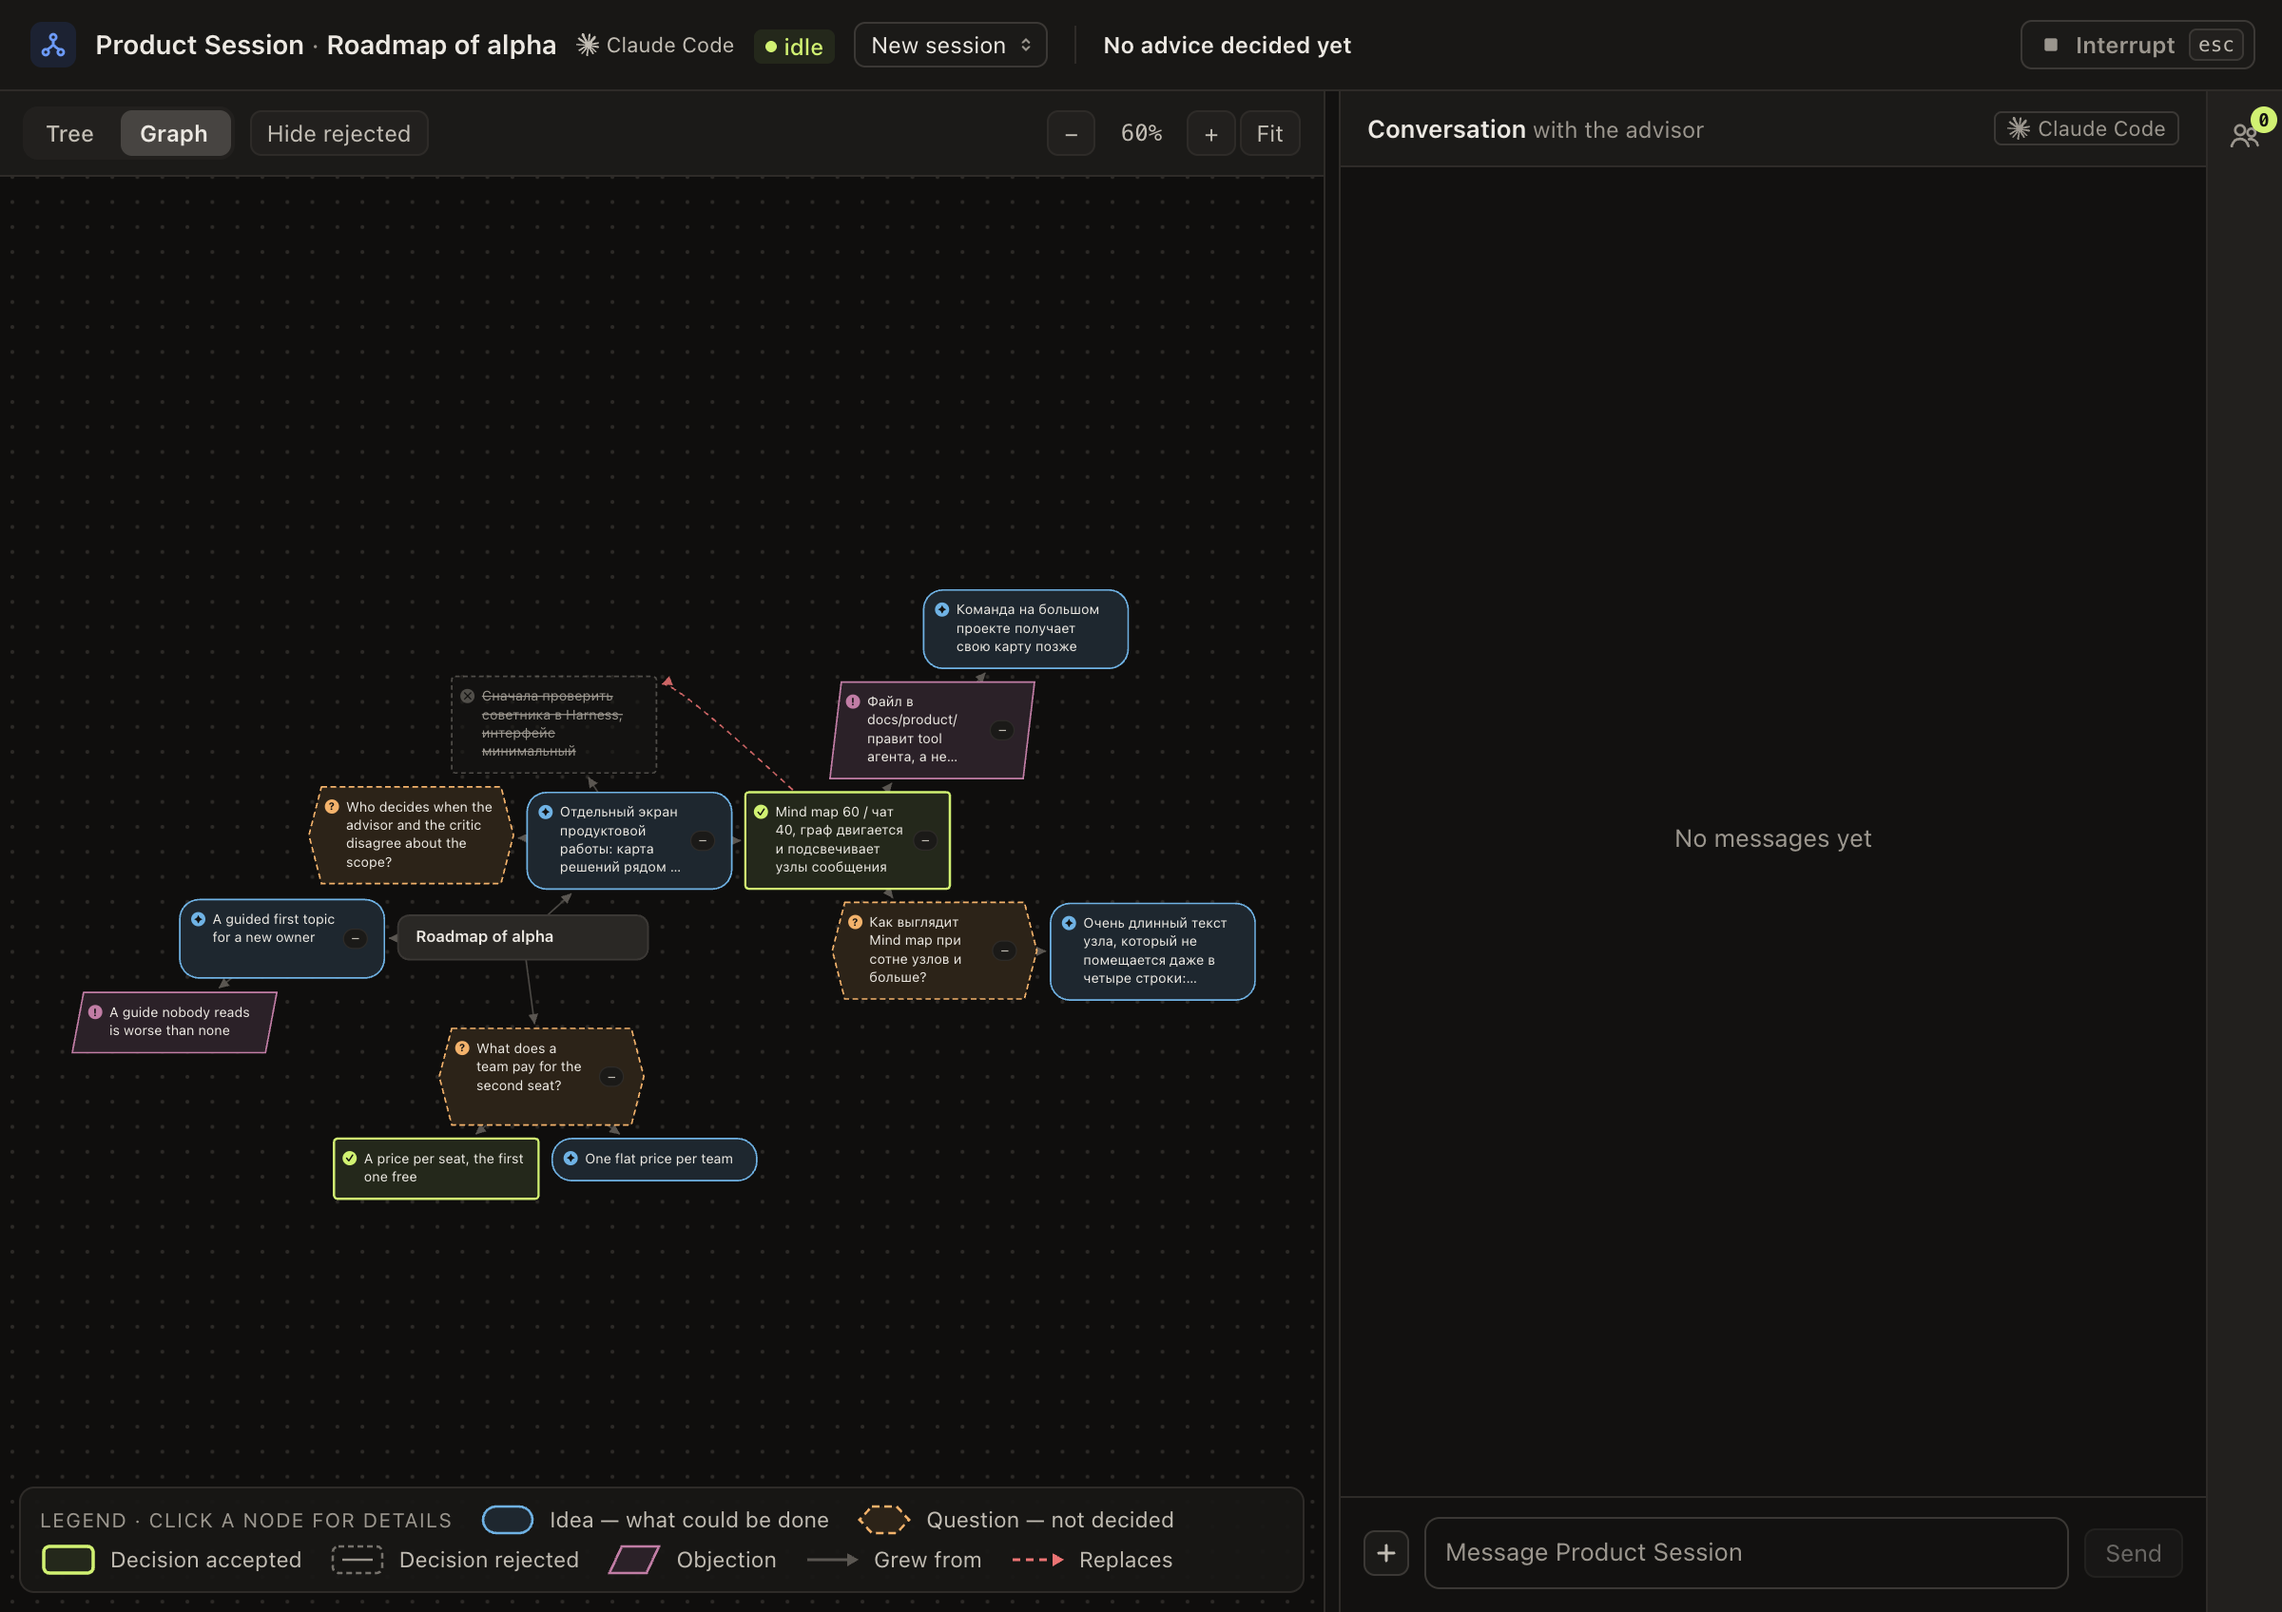
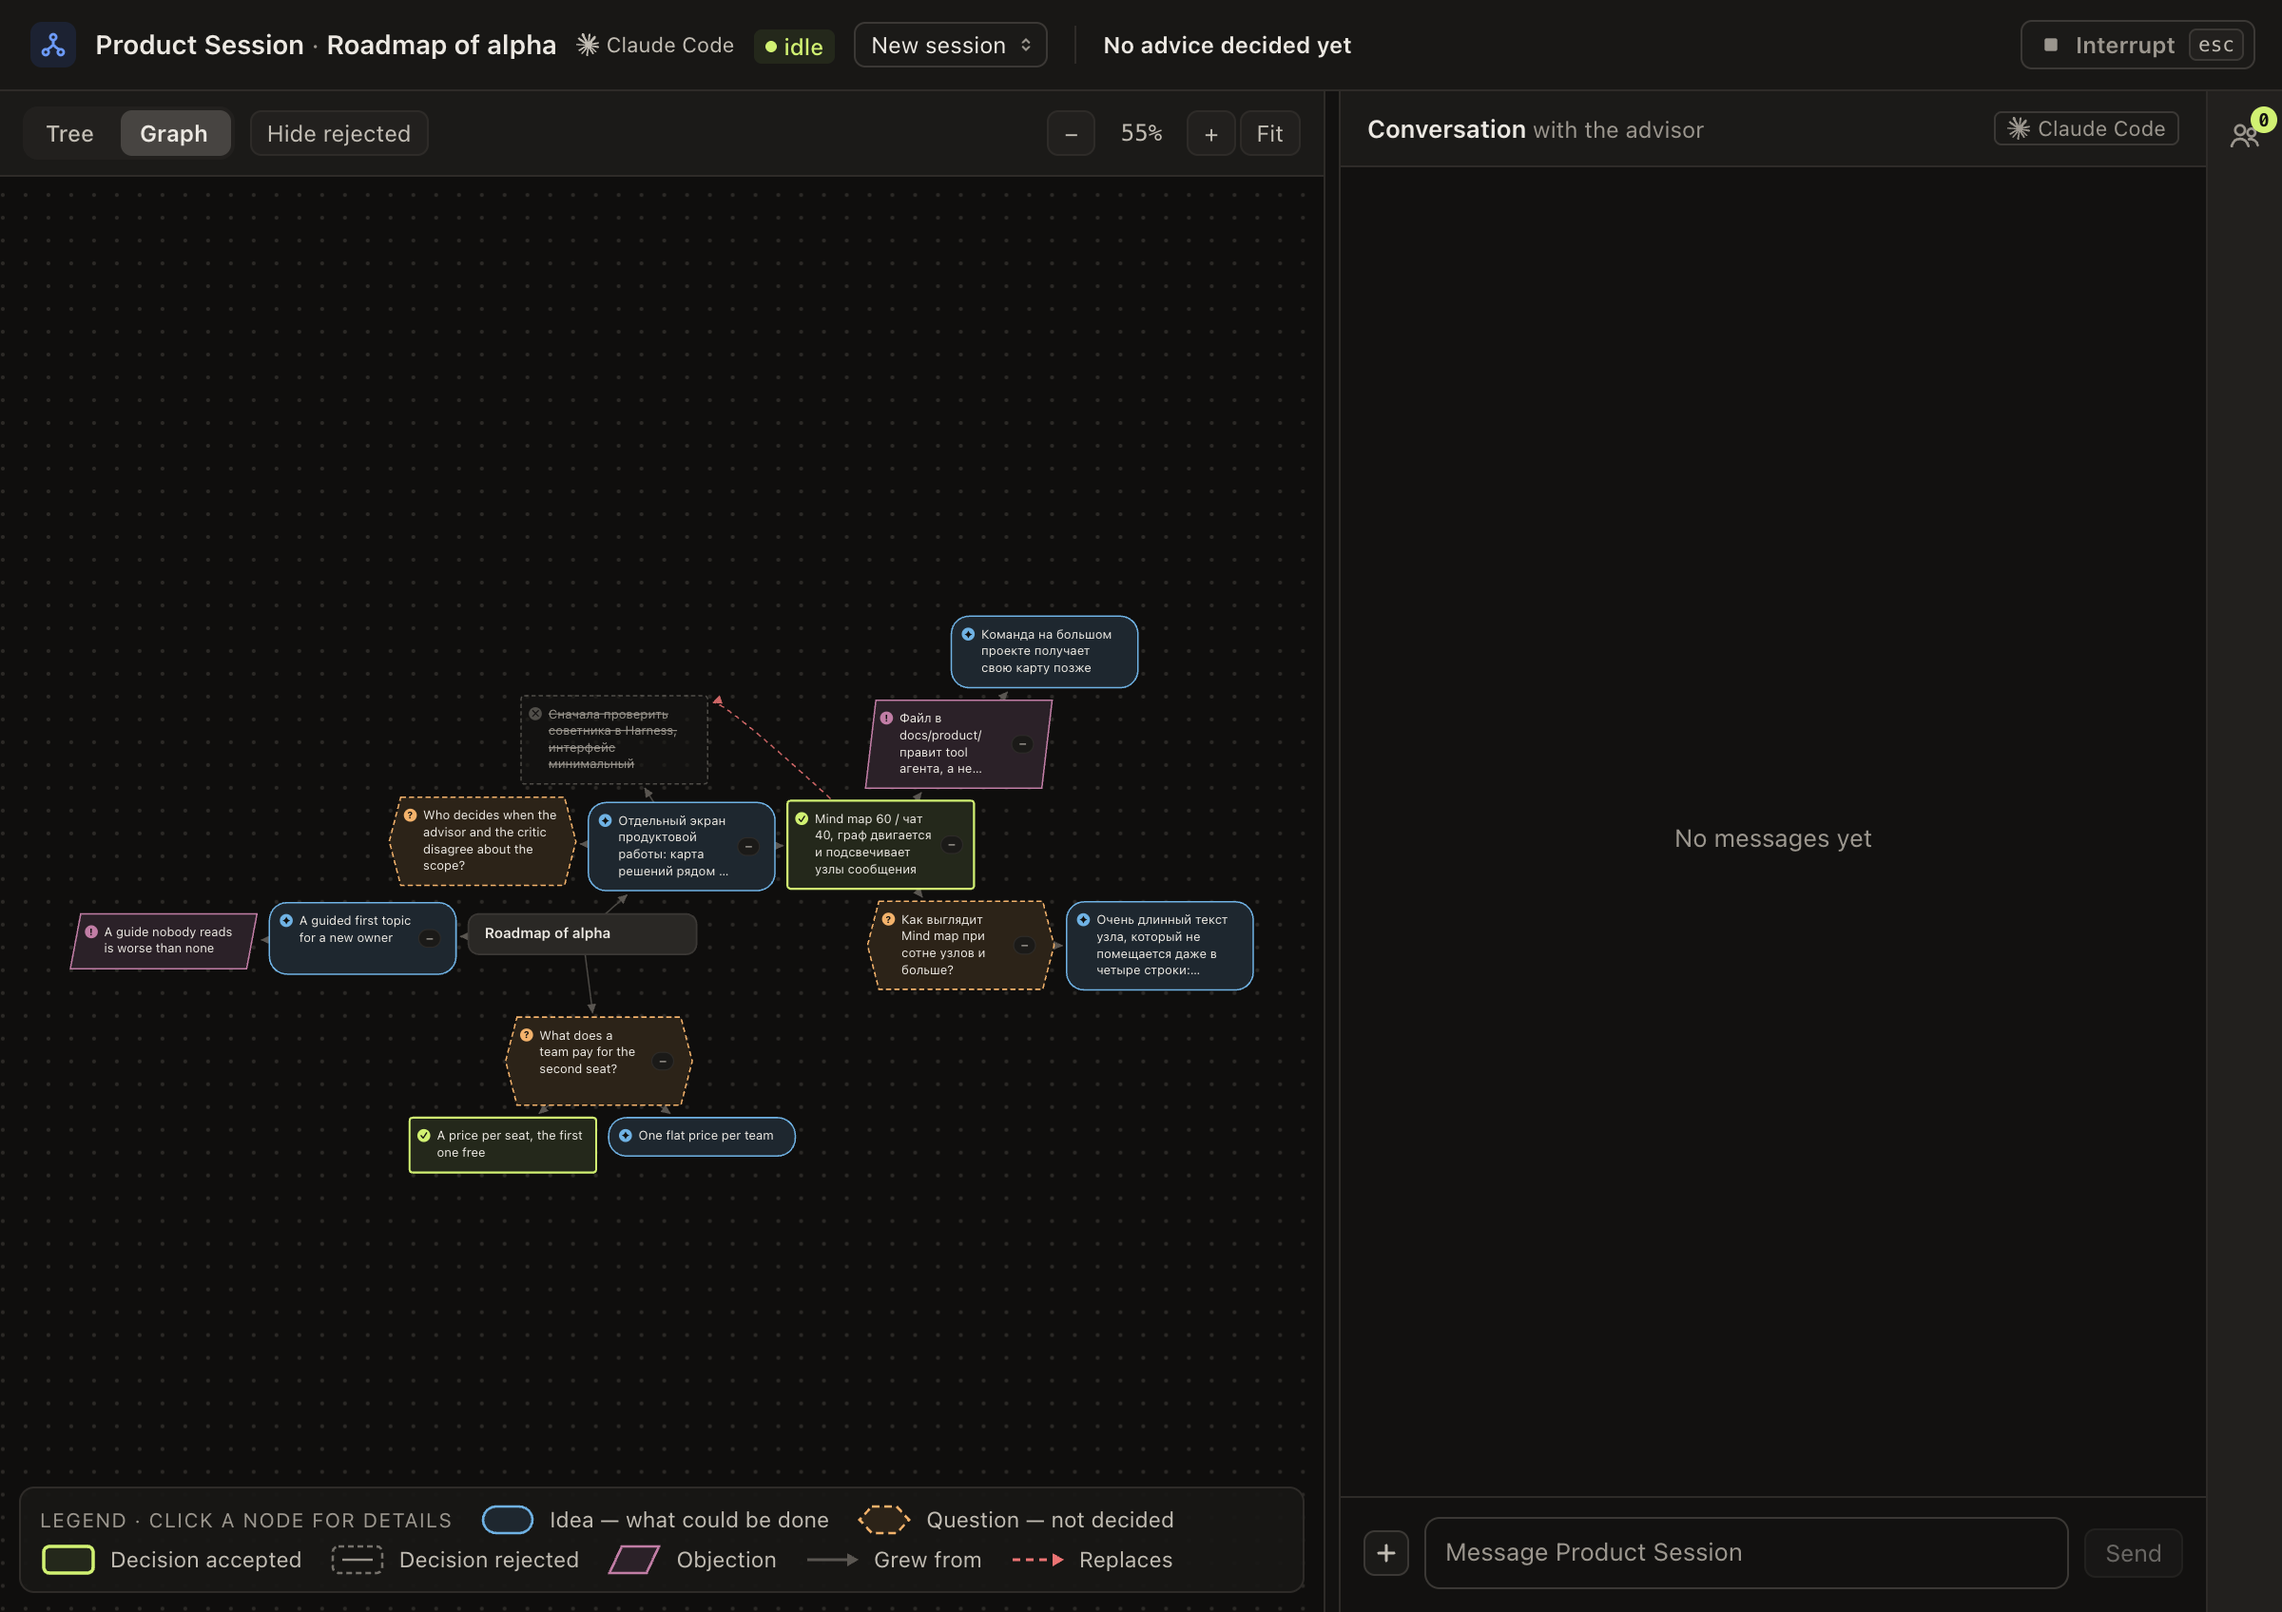
docs: worfy-product-session 26 evidence lines, review round 2

Changed region(s): [[0.0312, 0.3438, 0.5625, 0.75]]

diff --git a/.scratch/worfy-product-session/issues/26-граф-радиальный-как-в-прототипе.md b/.scratch/worfy-product-session/issues/26-граф-радиальный-как-в-прототипе.md
@@ -31,13 +31,17 @@ Source: владелец 2026-11-09, Q1 ([spec.md](../spec.md), «Решения
 - [ ] Unit test-ы раскладки «Graph»: корень около центра, дети вокруг него (не с одной стороны), ни один узел не
   накрывает другой, одинаковые данные — одинаковая раскладка.
   - evidence: test-run pass · `pnpm test test/unit/mind-map-layout.test.ts` (describe the radial Graph, 5 tests) exit 0 · mac dev · 2843c072b37357f7cc009749800752a1fa3ce93b
+  - evidence: test-run pass · `pnpm test` on the 7 unit files importing src/renderer/product, 155 passed (radial Graph, Graph by hand, layout once per layout key) exit 0 · mac dev · adeef281e2cd11066a7e86b405c791a91bc1094b
 - [ ] e2e test (`test/e2e/product-session.spec.ts`): переключение на «Graph» рисует узлы без наложения, корень около
   центра.
   - evidence: test-run pass · `pnpm test:e2e test/e2e/product-session.spec.ts` 4 passed, the Graph test included, exit 0 · mac dev · 2843c072b37357f7cc009749800752a1fa3ce93b
+  - evidence: test-run pass · `pnpm test:e2e test/e2e/product-session.spec.ts` 4 passed, the Graph test included, exit 0 · mac dev · adeef281e2cd11066a7e86b405c791a91bc1094b
 - [ ] Снимок «Graph» (тёмная тема) в `../evidence/26-graph-dark.png`, без личных имён и путей.
   - evidence: screenshot pass · `../evidence/26-graph-dark.png` dark theme, window 1440, Graph after Fit, topic in the middle, fixture texts only · mac dev · 2843c072b37357f7cc009749800752a1fa3ce93b · scrub: 2026-11-09
+  - evidence: screenshot pass · `../evidence/26-graph-dark.png` dark theme, window 1440, Graph after Fit, review round 2 layout, fixture texts only · mac dev · adeef281e2cd11066a7e86b405c791a91bc1094b · scrub: 2026-11-09
 - [ ] `pnpm lint`, `pnpm typecheck`, unit test-ы, что импортируют `src/renderer/product`, e2e
   `test/e2e/product-session.spec.ts`, gate fast — exit 0; `ci-ok` на PR зелёный.
+  - evidence: gate pass · `gate fast` exit 0 · mac dev · adeef281e2cd11066a7e86b405c791a91bc1094b
 - [ ] Взгляд владельца на «Graph» в Mac Stable (вручную).
 
 ## Тесты
